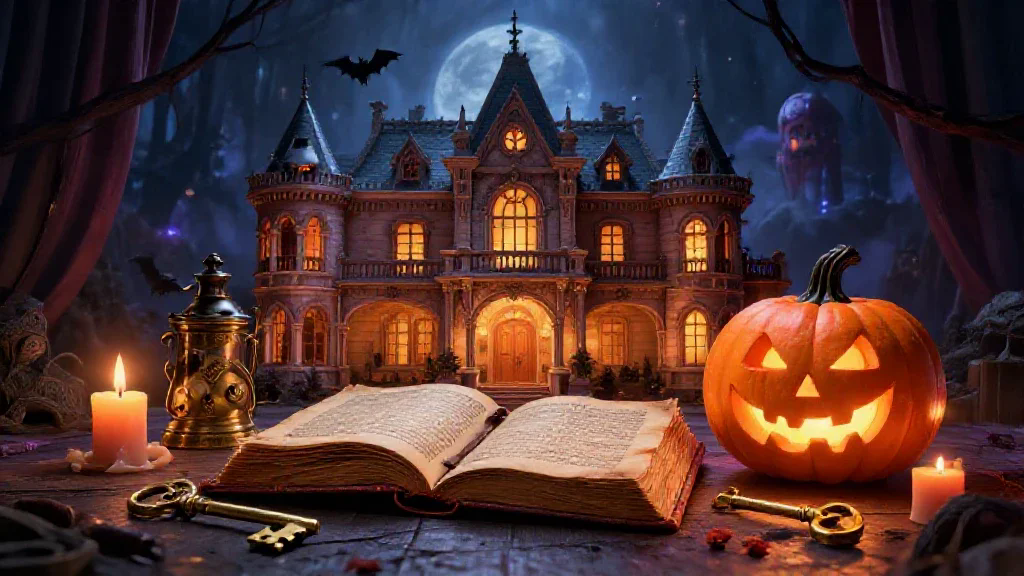
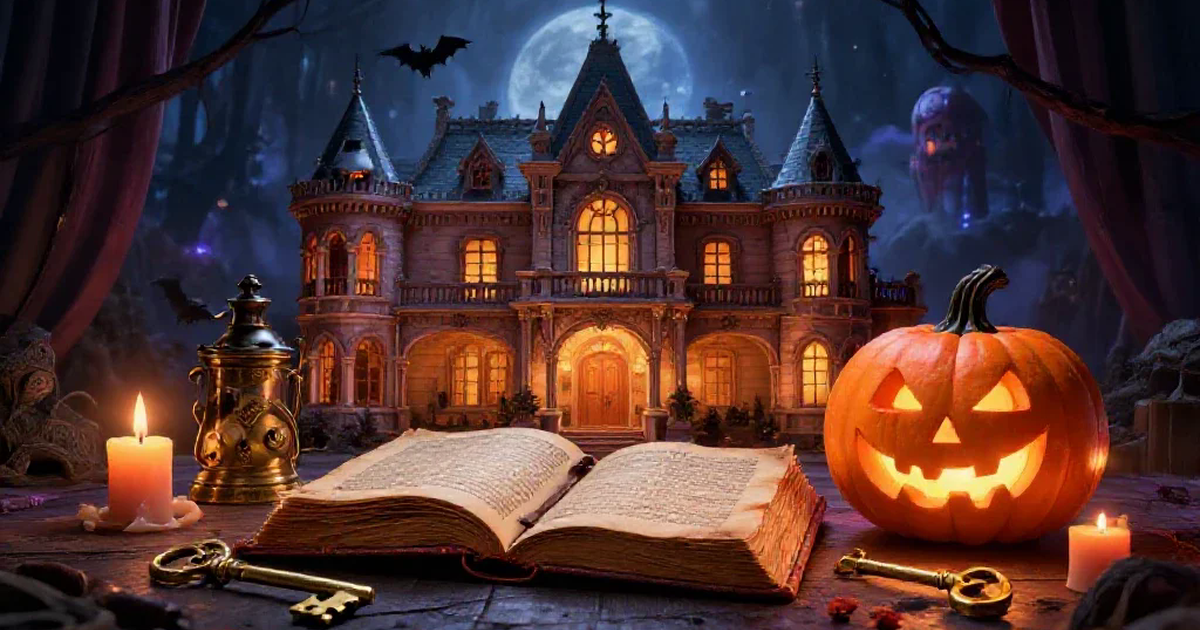
Open Graph : image 1200 x 630 et metadonnees completes

diff --git a/index.html b/index.html
@@ -9,13 +9,17 @@
     <meta property="og:type" content="website" />
     <meta property="og:title" content="Lanterne de Courge : Les Clés du Manoir : Gare aux courants d'air spectraux" />
     <meta property="og:description" content="Lanterne de Courge : enquête et escape game dans un manoir spectral. Allume les bougies, consulte le grimoire, crochete les serrures en laiton et trouve la sortie." />
-    <meta property="og:image" content="https://games.hylst.fr/lanternecourge/og-image.png" />
+    <meta property="og:image" content="https://games.hylst.fr/lanternecourge/og-image.png?v=2" />
+    <meta property="og:image:type" content="image/png" />
+    <meta property="og:image:width" content="1200" />
+    <meta property="og:image:height" content="630" />
+    <meta property="og:image:alt" content="Lanterne de Courge" />
     <meta property="og:url" content="https://games.hylst.fr/lanternecourge/" />
     <meta property="og:site_name" content="Hylst.Games" />
     <meta name="twitter:card" content="summary_large_image" />
     <meta name="twitter:title" content="Lanterne de Courge : Les Clés du Manoir : Gare aux courants d'air spectraux" />
     <meta name="twitter:description" content="Lanterne de Courge : enquête et escape game dans un manoir spectral. Allume les bougies, consulte le grimoire, crochete les serrures en laiton et trouve la sortie." />
-    <meta name="twitter:image" content="https://games.hylst.fr/lanternecourge/og-image.png" />
+    <meta name="twitter:image" content="https://games.hylst.fr/lanternecourge/og-image.png?v=2" />
     <meta name="robots" content="index, follow" />
     <link rel="canonical" href="https://games.hylst.fr/lanternecourge/" />
     <link rel="icon" type="image/png" href="favicon.png" />
